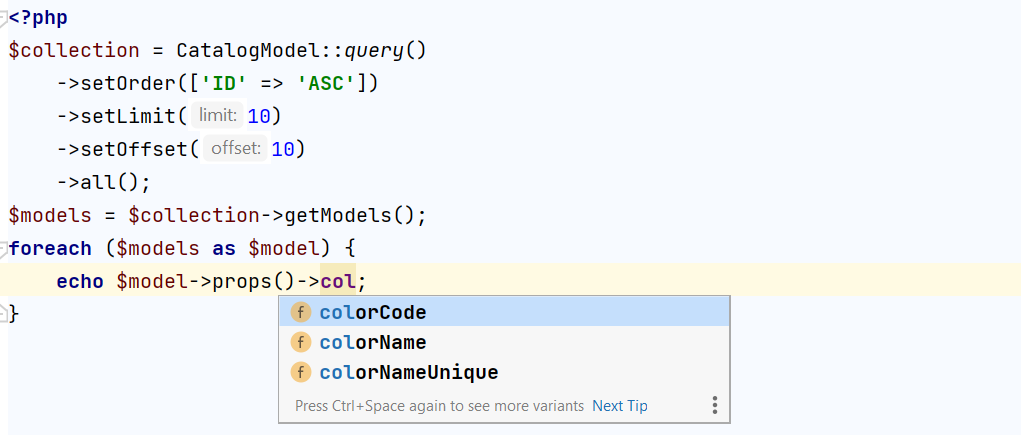
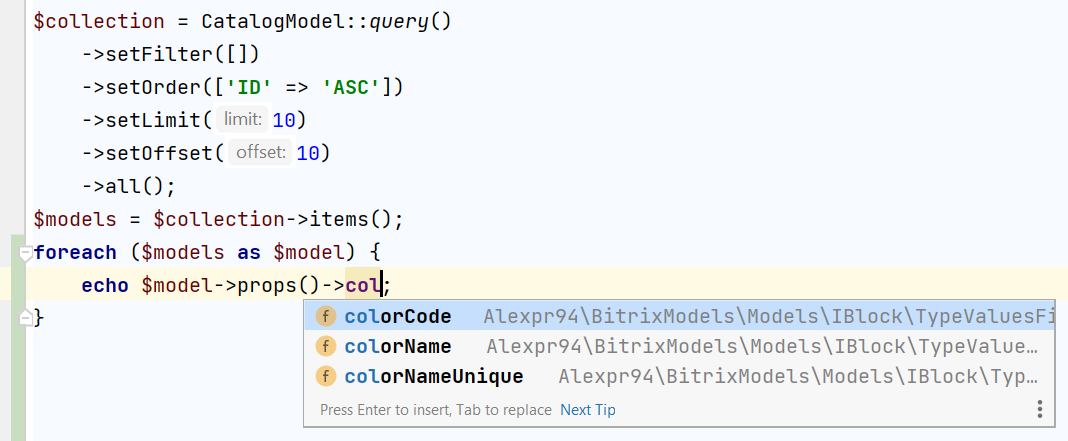
changes readme

diff --git a/README.md b/README.md
@@ -137,7 +137,7 @@ $collection = CatalogSectionModel::query()
     ->setNPageSize(10)
     ->setINumPage(10)
     ->all();
-$models = $collection->getModels();
+$models = $collection->items();
 foreach ($models as $model) {
     var_dump($model->fields);
     var_dump($model->props());
